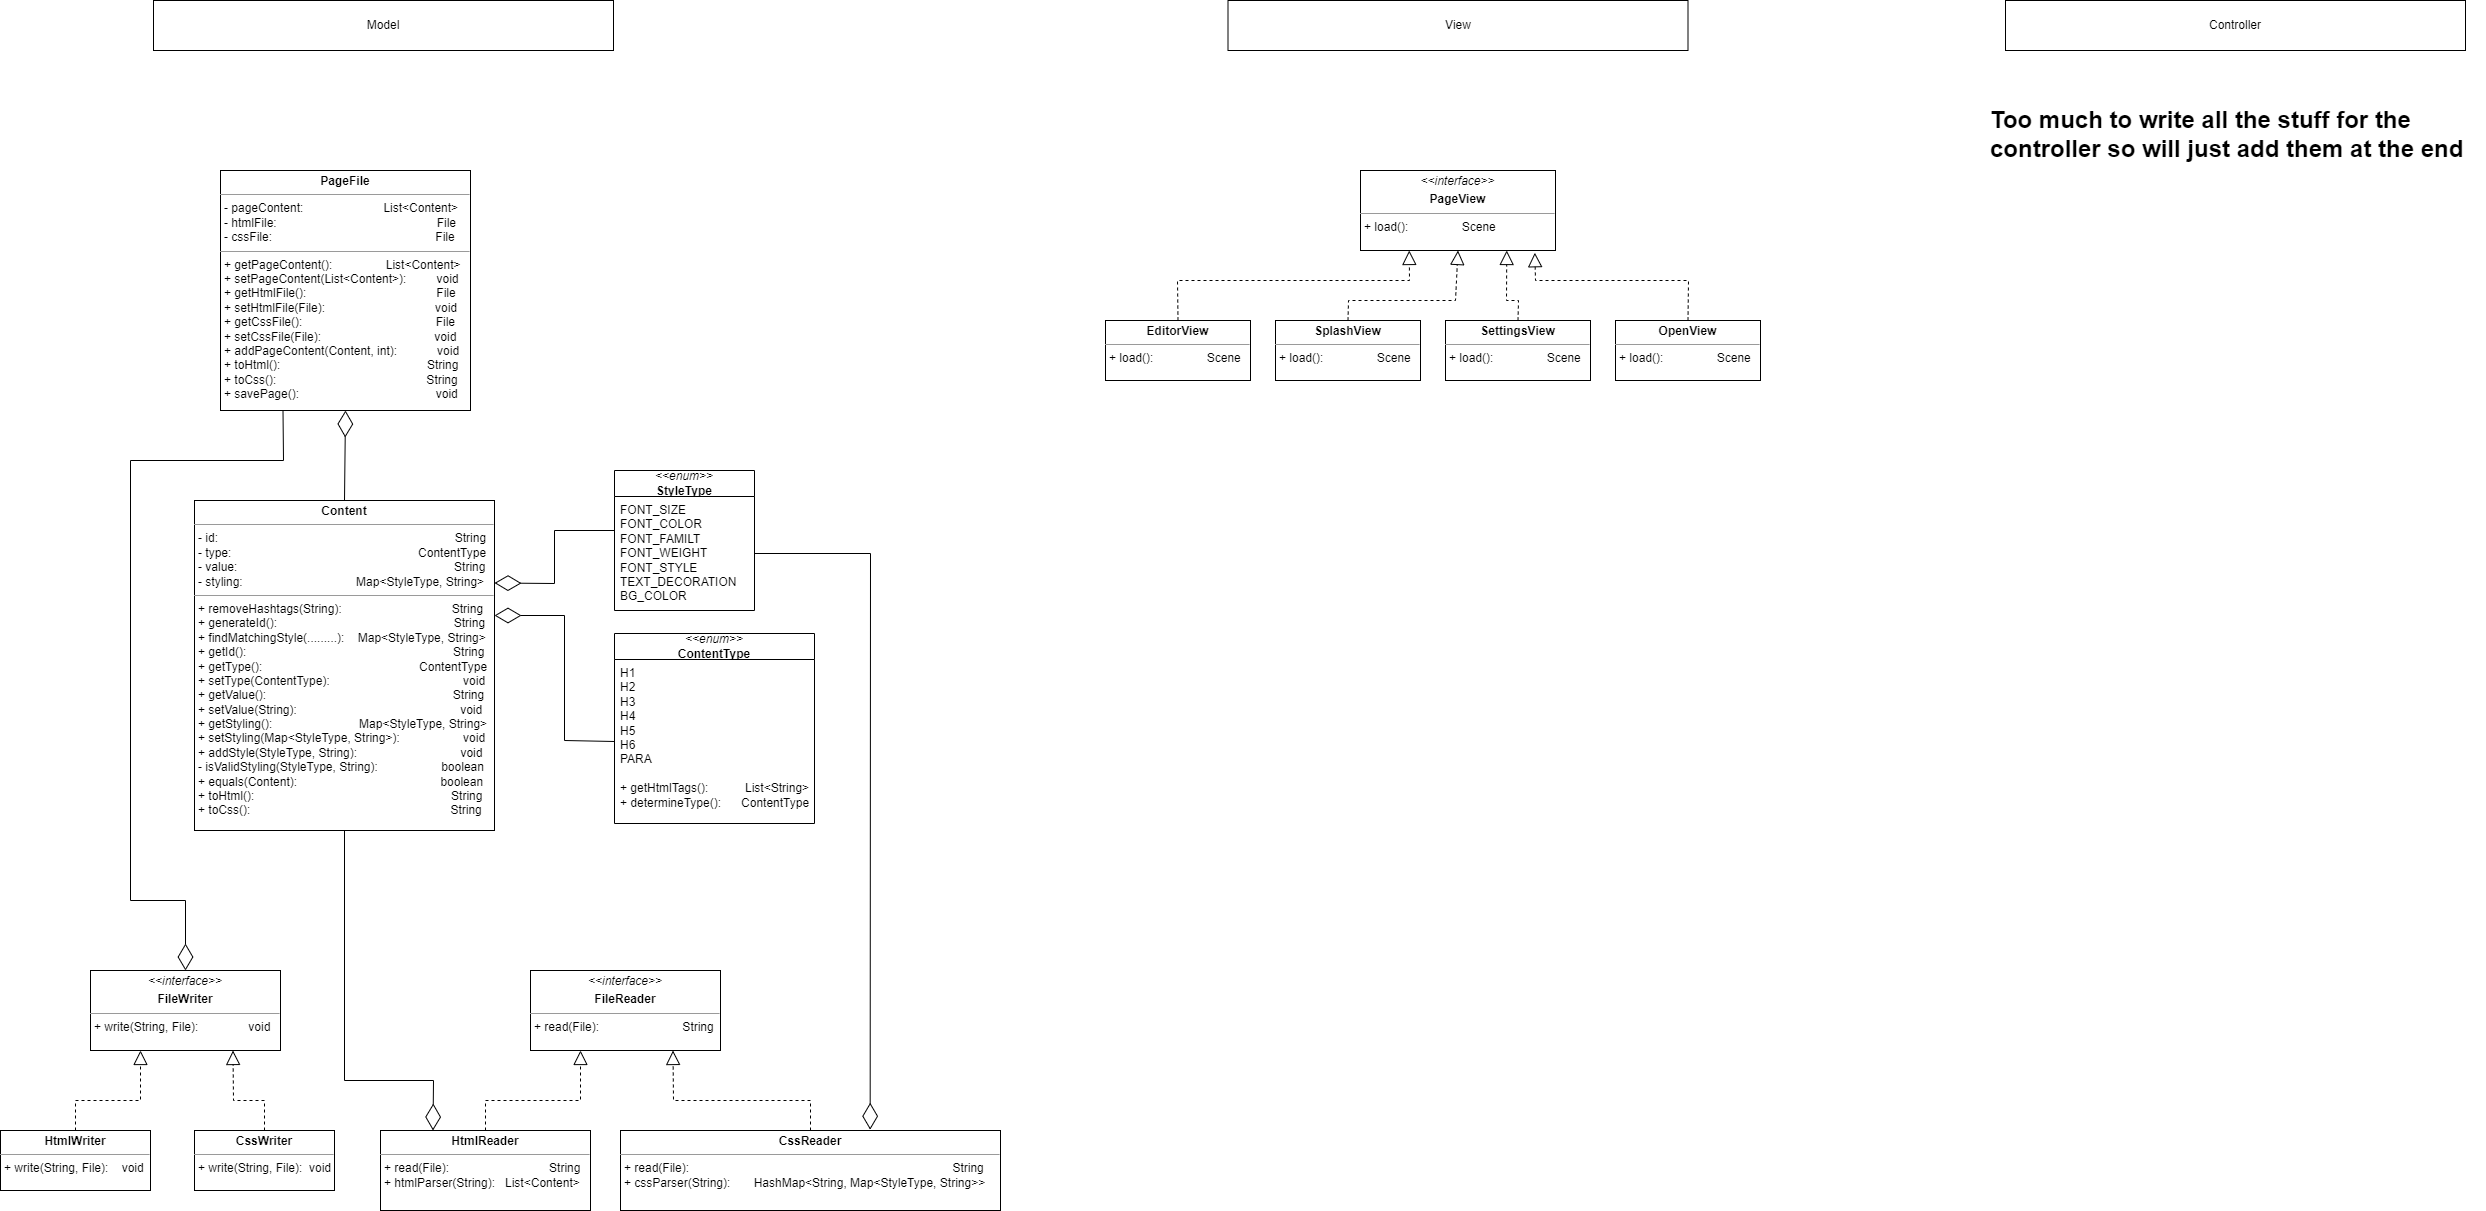
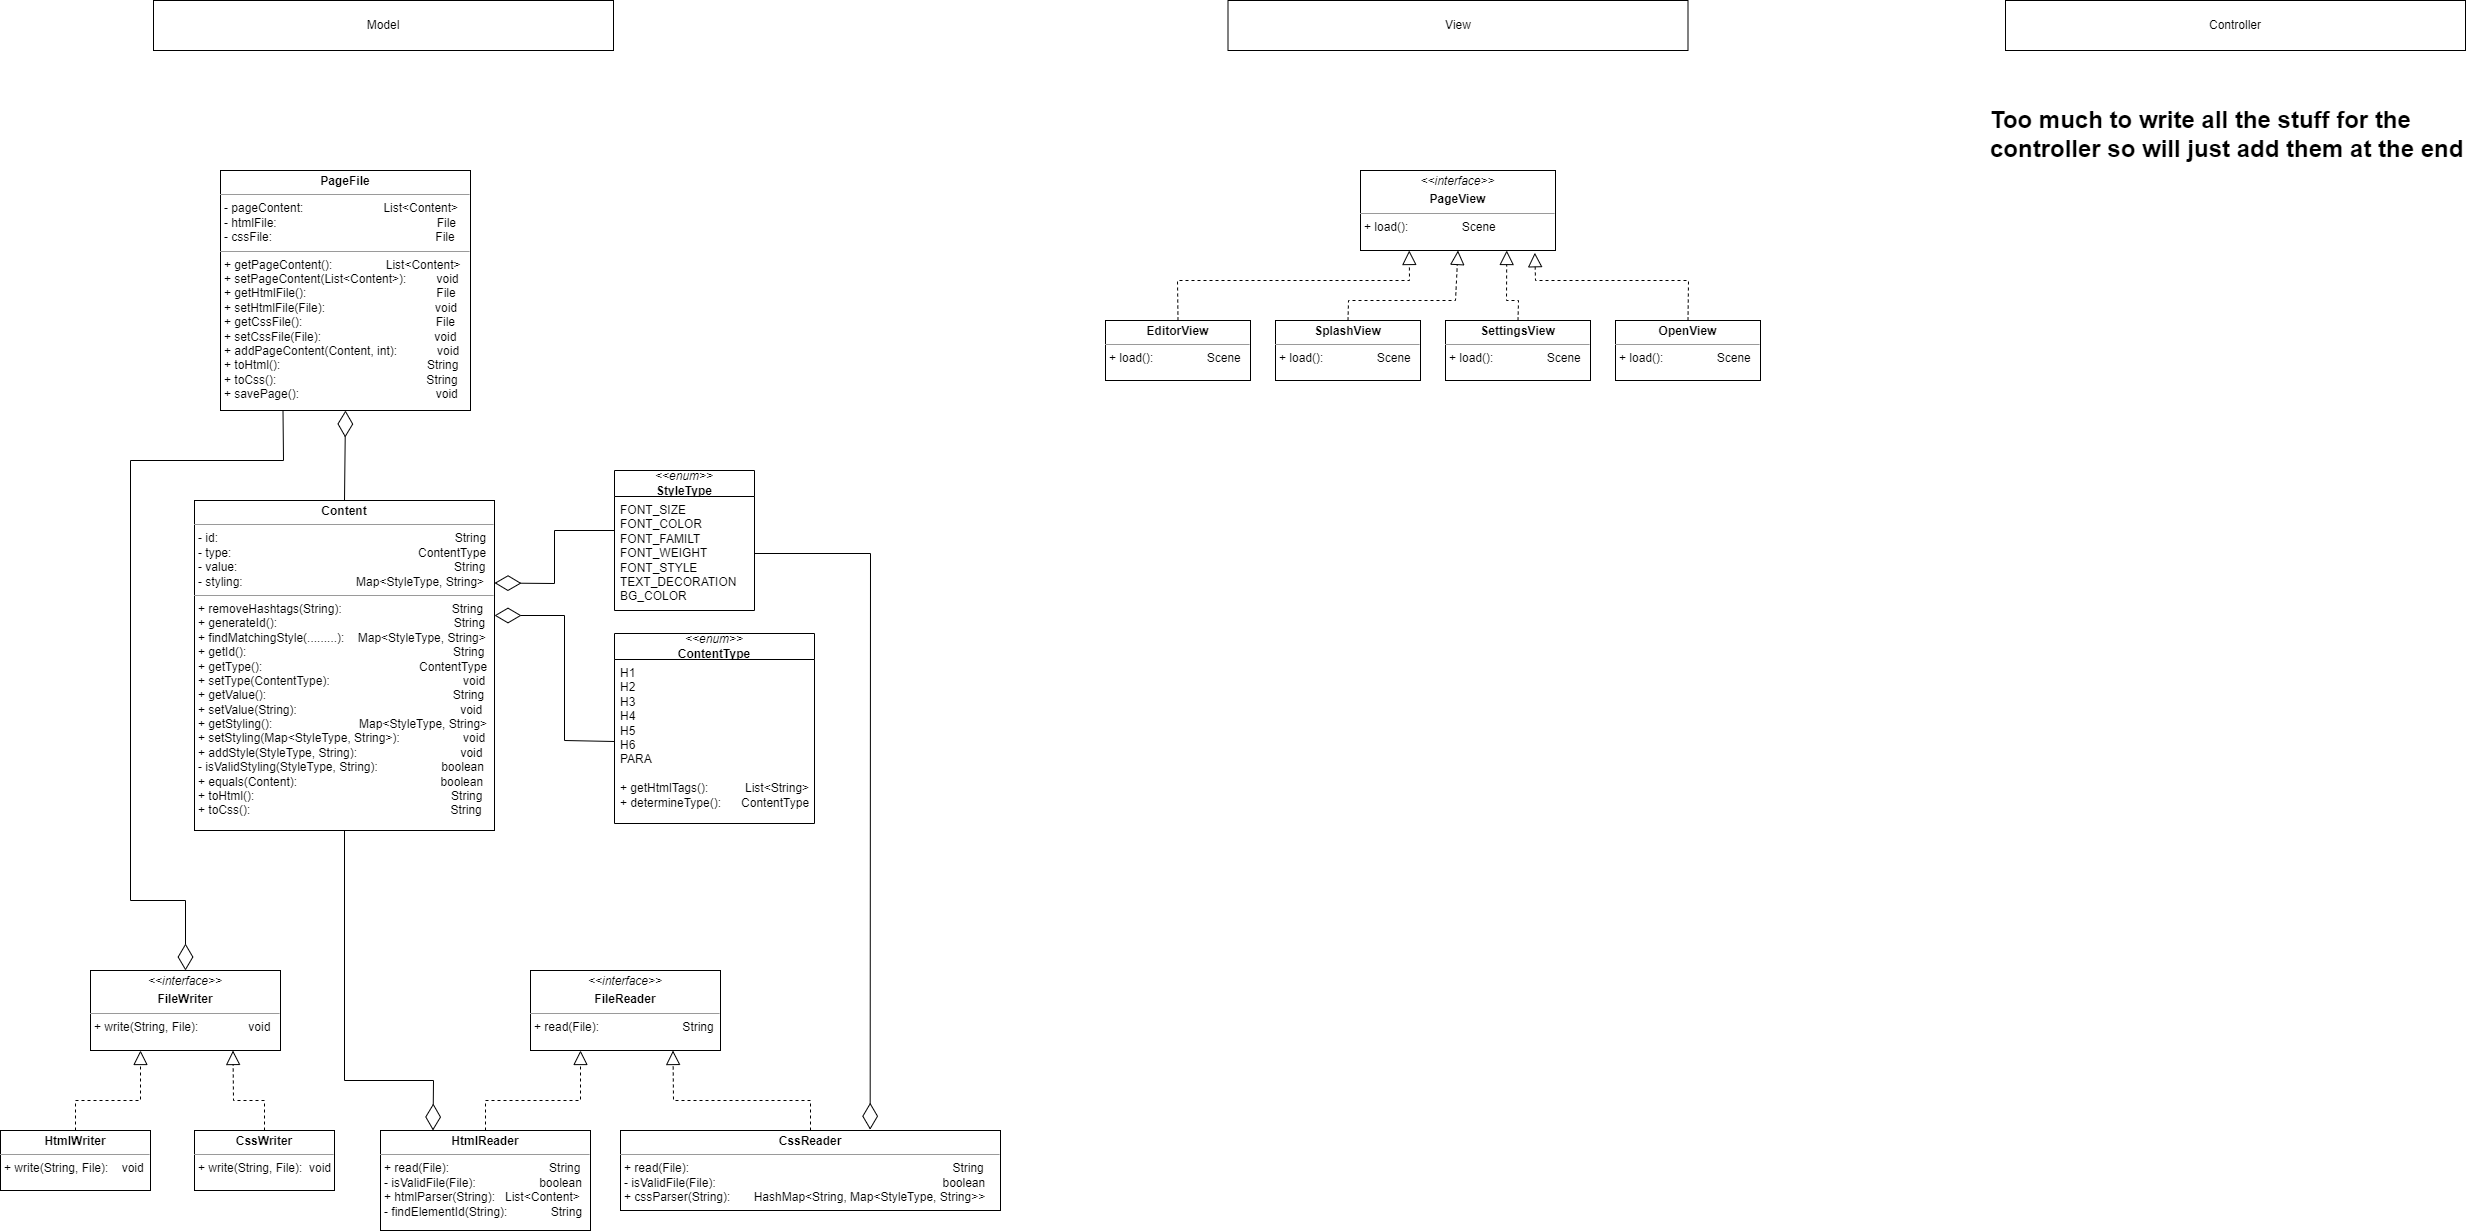
quick commit -- changing devices

diff --git a/src/main/resources/sample.html b/src/main/resources/sample.html
@@ -1,18 +1,18 @@
-<html lang="en">
+<html lang='en'>
     <head>
         <title>Sample Page</title>
-        <link rel="stylesheet" type="text/css" href="../../test/resources/sample.css">
+        <link rel='stylesheet' type='text/css' href='../../test/resources/sample.css'>
     </head>
     <body>
-        <h1>Header 1</h1>
-        <p>Lorem ipsum dolor sit amet, consectetur adipiscing elit, sed do eiusmod tempor incididunt ut labore
+        <h1 id='sampleH1'>Header 1</h1>
+        <p id='samplePara'>Lorem ipsum dolor sit amet, consectetur adipiscing elit, sed do eiusmod tempor incididunt ut labore
             et dolore magna aliqua. Ut enim ad minim veniam, quis nostrud exercitation ullamco laboris nisi ut
             aliquip ex ea commodo consequat. Duis aute irure dolor in reprehenderit in voluptate velit esse cillum
-            dolore eu fugiat nulla pariatur. <strong>Excepteur sint occaecat cupidatat non proident</strong>,
+            dolore eu fugiat nulla pariatur. **Excepteur sint occaecat cupidatat non proident**,
             sunt in culpa quiofficia deserunt mollit anim id est laborum.</p>
-        <br>
-        <p><u>Sed ut perspiciatis unde omnis iste natus error sit voluptatem accusantium doloremque laudantium</u></p>
 
-        <h2><em>Header 2</em></h2>
+        <h2 id='sampleH2'>_Header 2_</h2>
+
+        <p id='samplePara2'>::Sed ut perspiciatis unde omnis iste natus error sit voluptatem accusantium doloremque laudantium::</p>
     </body>
 </html>

diff --git a/src/main/java/textEditor/model/io/readers/HtmlReader.java b/src/main/java/textEditor/model/io/readers/HtmlReader.java
@@ -1,25 +1,106 @@
 package textEditor.model.io.readers;
 
-import textEditor.model.io.readers.FileReader;
+import textEditor.model.Content;
 
 import java.io.File;
+import java.io.FileNotFoundException;
+import java.util.ArrayList;
+import java.util.List;
+import java.util.Scanner;
+import java.util.regex.Matcher;
+import java.util.regex.Pattern;
 
 /**
  * Represents a tool for reading content from a html file
  */
 public class HtmlReader implements FileReader {
-    // TODO consider using jsoup for parsing html files
 
     /**
      * Reads and returns the content found in the given html file
      *
      * @param file the html file being read from
      * @return the string of html found
-     * @throws RuntimeException         if the given html file could not be found
-     * @throws IllegalArgumentException if the given file is not a html file
      */
     @Override
     public String read(File file) {
-        return null;
+        Scanner scanner = isValidFile(file);
+        StringBuilder htmlString = new StringBuilder();
+
+        while (scanner.hasNextLine()) {
+            String html = scanner.nextLine() + "\n";
+            htmlString.append(html);
+        }
+
+        return htmlString.toString();
+    }
+
+    /**
+     * Determines if the given html file is valid (i.e. can be found/scanned and
+     * has the correct file extension).
+     *
+     * @param file the file to be checked
+     * @return the file's scanner if the file is valid
+     * @throws IllegalArgumentException if the file name does not end in .html
+     * @throws RuntimeException if the file could not be found or read
+     */
+    @Override
+    public Scanner isValidFile(File file) {
+        if (!file.getName().endsWith(".html")) {
+            throw new IllegalArgumentException("File must end in '.html'");
+        }
+
+        try {
+            return new Scanner(file);
+        } catch (FileNotFoundException e) {
+            throw new RuntimeException("The given html file could not be found or read\n-------------------\n", e);
+        }
+    }
+
+    /**
+     * Parses the given string of html and represents it as PageFile content
+     *
+     * @param htmlString the string of html to parse
+     * @return a list of the PageFile content found
+     */
+    public List<Content> htmlParser(String htmlString) {
+        List<Content> content = new ArrayList<>();
+        Scanner scanner = new Scanner(htmlString);
+
+        return content;
+    }
+
+    /**
+     * Finds the 'id' of the html element from the given html string
+     *
+     * @param htmlString the string of html
+     * @return the id of the element in the string
+     */
+    private String findElementId(String htmlString) {
+        Pattern pattern = Pattern.compile("id=['\"](.*?)['\"]");
+        Matcher matcher = pattern.matcher(htmlString);
+        if (matcher.find()) {
+            return matcher.group(1);
+        } else {
+            return "";
+        }
+    }
+
+    /**
+     * Finds the paragraph text enclosed in the given html string
+     *
+     * @param htmlString the string of html
+     * @return the paragraph text
+     */
+    private String findParagraphText(String htmlString) {
+        Pattern pattern = Pattern.compile("=['\"](.*?)['\"]");
     }
 }
+
+
+
+
+
+
+
+
+

diff --git a/src/main/java/textEditor/model/io/readers/CssReader.java b/src/main/java/textEditor/model/io/readers/CssReader.java
@@ -1,6 +1,8 @@
 package textEditor.model.io.readers;
 
 import java.io.File;
+import java.io.FileNotFoundException;
+import java.util.Scanner;
 
 public class CssReader implements FileReader {
 
@@ -9,11 +11,33 @@ public class CssReader implements FileReader {
      *
      * @param file the css file being read from
      * @return the string of css found
-     * @throws RuntimeException         if the given css file could not be found
+     * @throws RuntimeException if the given css file could not be found or scanned
      * @throws IllegalArgumentException if the given file is not a css file
      */
     @Override
     public String read(File file) {
         return null;
+    }
+
+    /**
+     * Determines if the given css file is valid (i.e. can be found/scanned and
+     * has the correct file extension).
+     *
+     * @param file the file to be checked
+     * @return the file's scanner if the file is valid
+     * @throws IllegalArgumentException if the file name does not end in .css
+     * @throws RuntimeException if the css file could not be found or read
+     */
+    @Override
+    public Scanner isValidFile(File file) {
+        if (!file.getName().endsWith(".css")) {
+            throw new IllegalArgumentException("File must end in '.css'");
+        }
+
+        try {
+            return new Scanner(file);
+        } catch (FileNotFoundException e) {
+            throw new RuntimeException("The given css file could not be found or read\n-------------------\n", e);
+        }
     }
 }

diff --git a/src/main/java/textEditor/controller/EditorController.java b/src/main/java/textEditor/controller/EditorController.java
@@ -91,7 +91,7 @@ public class EditorController extends PageController {
      */
     private void initMoreMenuBar() {
         saveButton.setOnAction(e -> {
-        // String bodyText = getBodyText();
+            pageFile.savePage();
         });
 
         saveAsButton.setOnAction(e -> {
@@ -99,7 +99,6 @@ public class EditorController extends PageController {
         });
 
         undoButton.setOnAction(e -> {
-
         });
 
         redoButton.setOnAction(e -> {
@@ -115,8 +114,14 @@ public class EditorController extends PageController {
      * Initializes the actions of the tab pane elements
      */
     private void initTabPane() {
+        // save then display properly formatted text
         previewTextTab.setOnSelectionChanged(e -> {
+            pageFile.savePage();
             if (previewTextTab.isSelected()) previewFile();
+        });
+        // opens/re-opens file with properly formatted text
+        editTextTab.setOnSelectionChanged(e -> {
+
         });
     }
 
@@ -130,7 +135,7 @@ public class EditorController extends PageController {
     }
 
     /**
-     * Saves, then displays in the 'Preview' tab, the contents of the PageFile
+     * Displays, in the 'Preview' tab, the contents of the PageFile
      */
     private void previewFile() {
         URL htmlUrl = getClass().getResource("/sample.html");

diff --git a/src/main/java/textEditor/model/io/readers/FileReader.java b/src/main/java/textEditor/model/io/readers/FileReader.java
@@ -1,5 +1,6 @@
 package textEditor.model.io.readers;
 
+import java.util.Scanner;
 import java.io.File;
 
 /**
@@ -16,4 +17,15 @@ public interface FileReader {
      * @throws IllegalArgumentException if the given file has the wrong extension
      */
     String read(File file);
+
+    /**
+     * Determines if the given file is valid (i.e. can be found/scanned and has the correct
+     * file extension).
+     *
+     * @param file the file to be checked
+     * @return the file's scanner if the file is valid
+     * @throws IllegalArgumentException if the file name does not end in the correct extension
+     * @throws RuntimeException if the file could not be found or read
+     */
+    Scanner isValidFile(File file);
 }

diff --git a/src/main/java/textEditor/Driver.java b/src/main/java/textEditor/Driver.java
@@ -4,8 +4,11 @@ import javafx.application.Application;
 import javafx.stage.Stage;
 import textEditor.controller.EditorController;
 import textEditor.model.PageFile;
+import textEditor.model.io.readers.HtmlReader;
 import textEditor.view.EditorView;
 import textEditor.view.PageView;
+
+import java.io.File;
 
 public class Driver extends Application {
 
@@ -43,5 +46,7 @@ public class Driver extends Application {
             System.out.println("----------------------------------------------");
             throw exc;
         }
+
+        System.out.println(new HtmlReader().read(new File("src/main/resources/sample.html")));
     }
 }

diff --git a/src/main/java/textEditor/model/PageFile.java b/src/main/java/textEditor/model/PageFile.java
@@ -141,8 +141,8 @@ public class PageFile {
      * Saves the html and css of this page in their respective files
      */
     public void savePage() {
-        new HtmlWriter().write(toHtml(), htmlFile);
-        new CssWriter().write(toCss(), cssFile);
+//        new HtmlWriter().write(toHtml(), htmlFile);
+//        new CssWriter().write(toCss(), cssFile);
     }
 
 }
